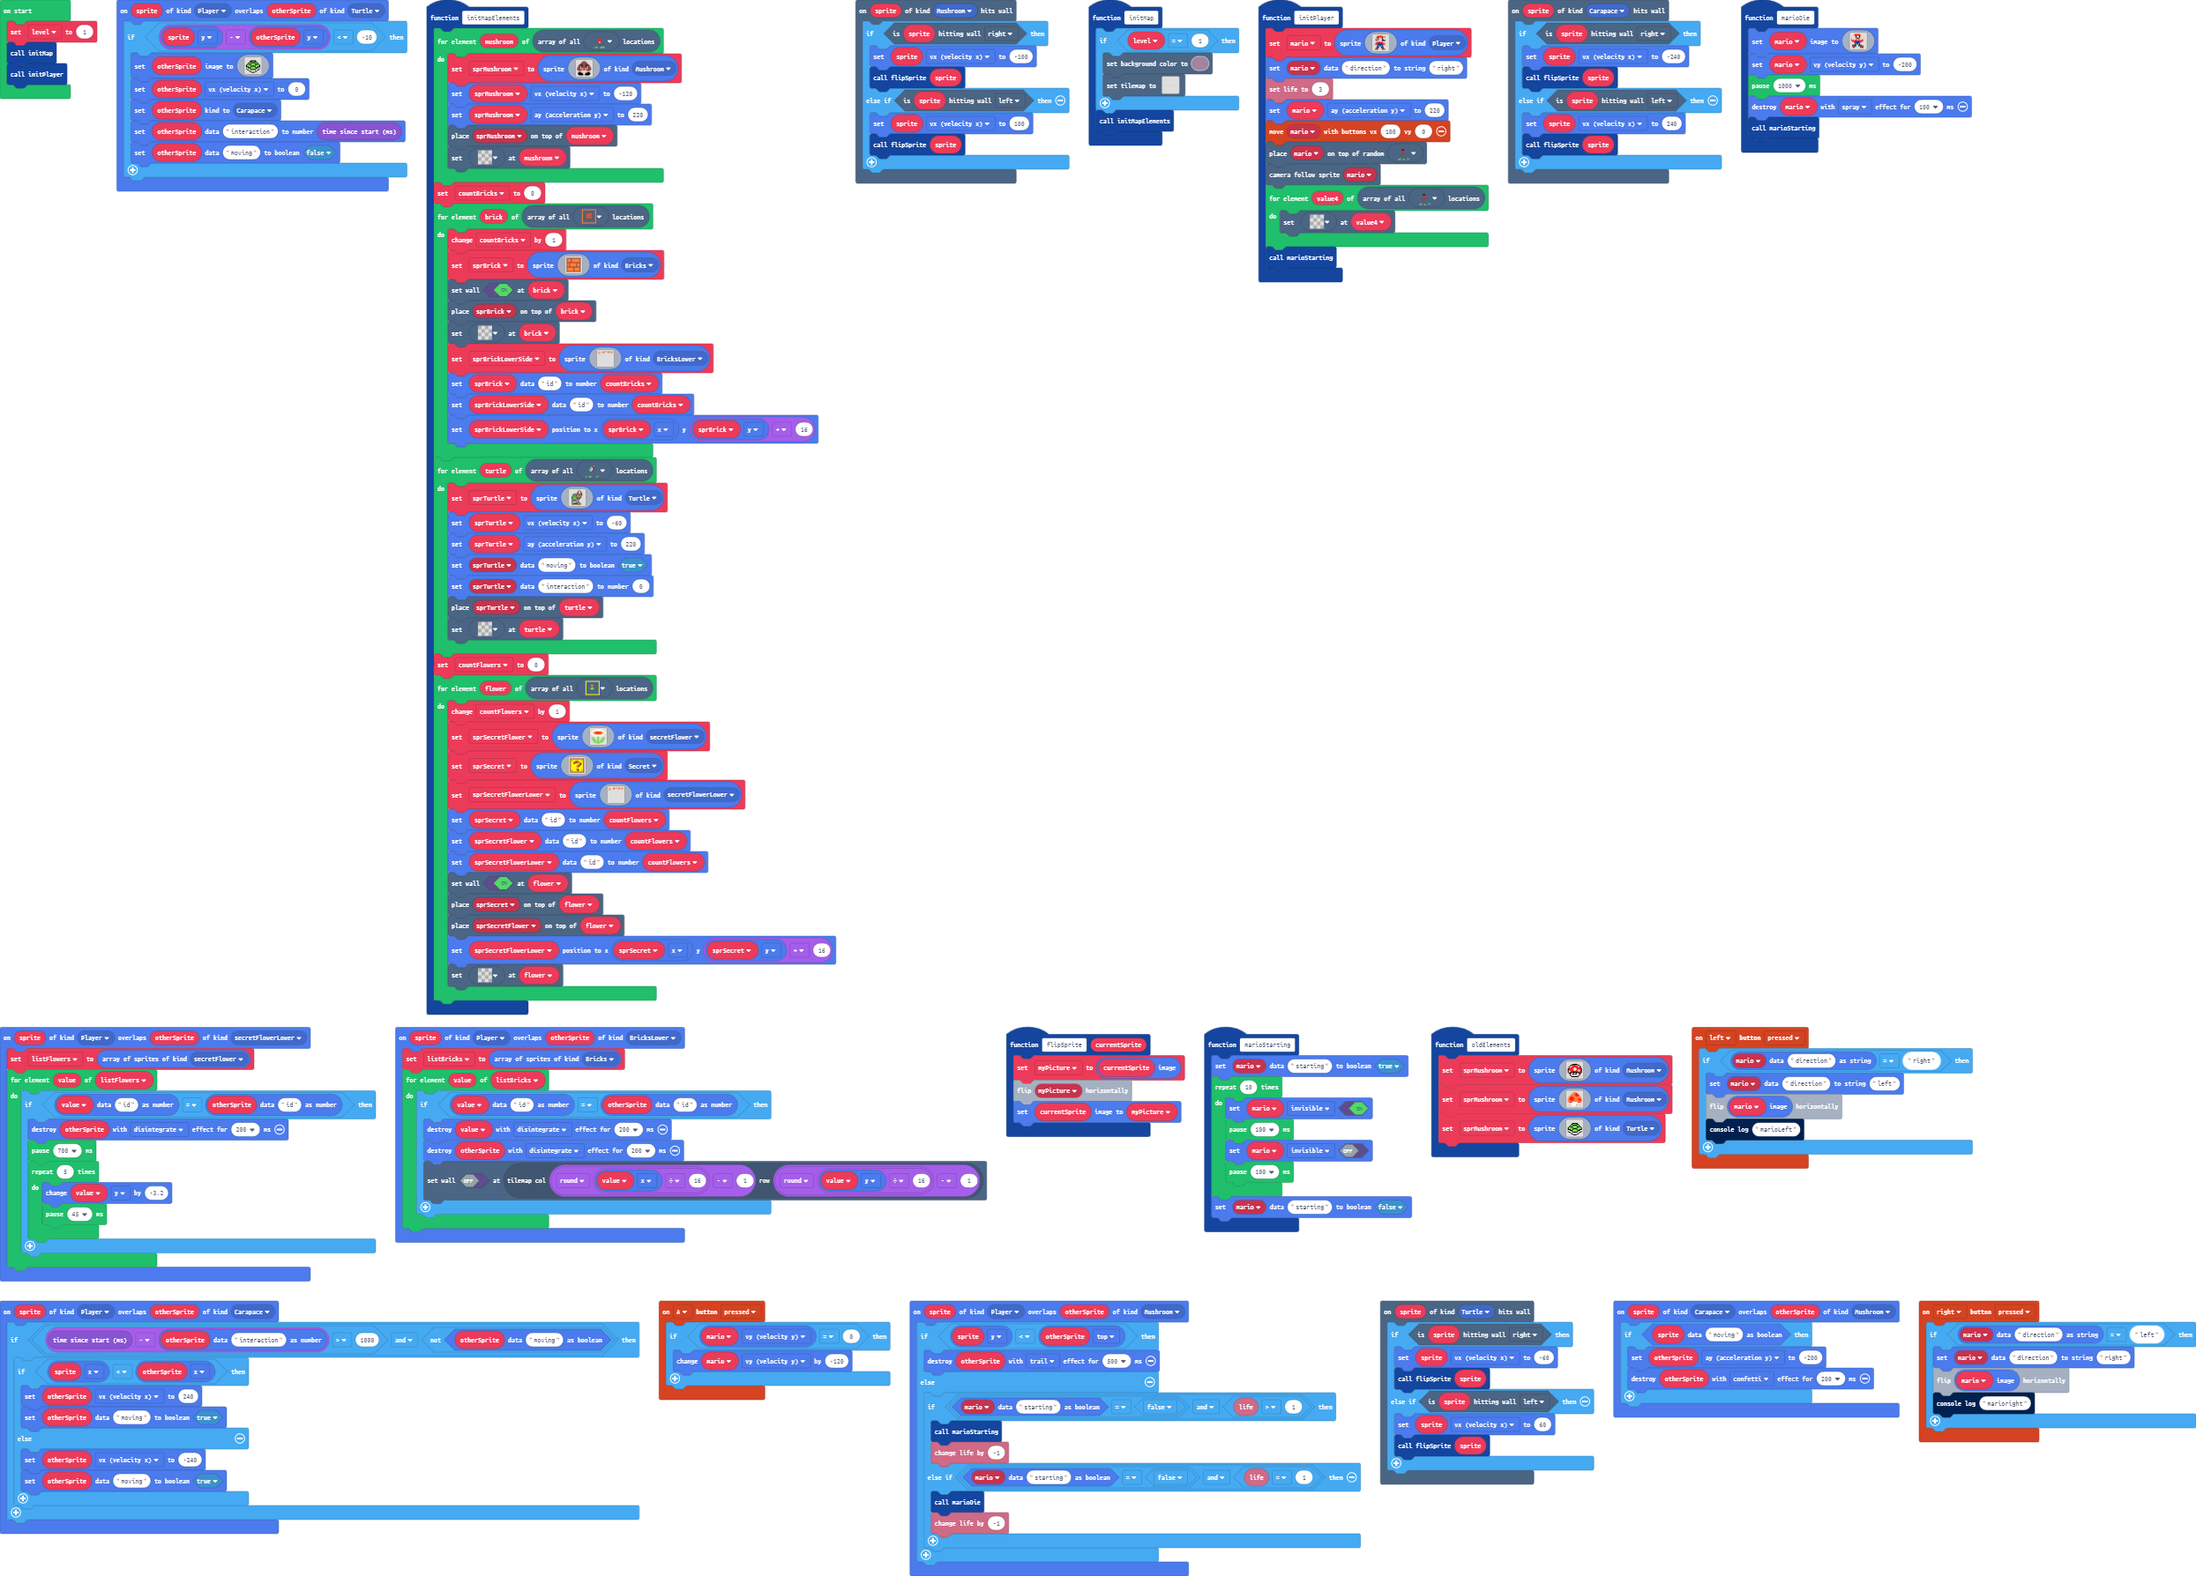
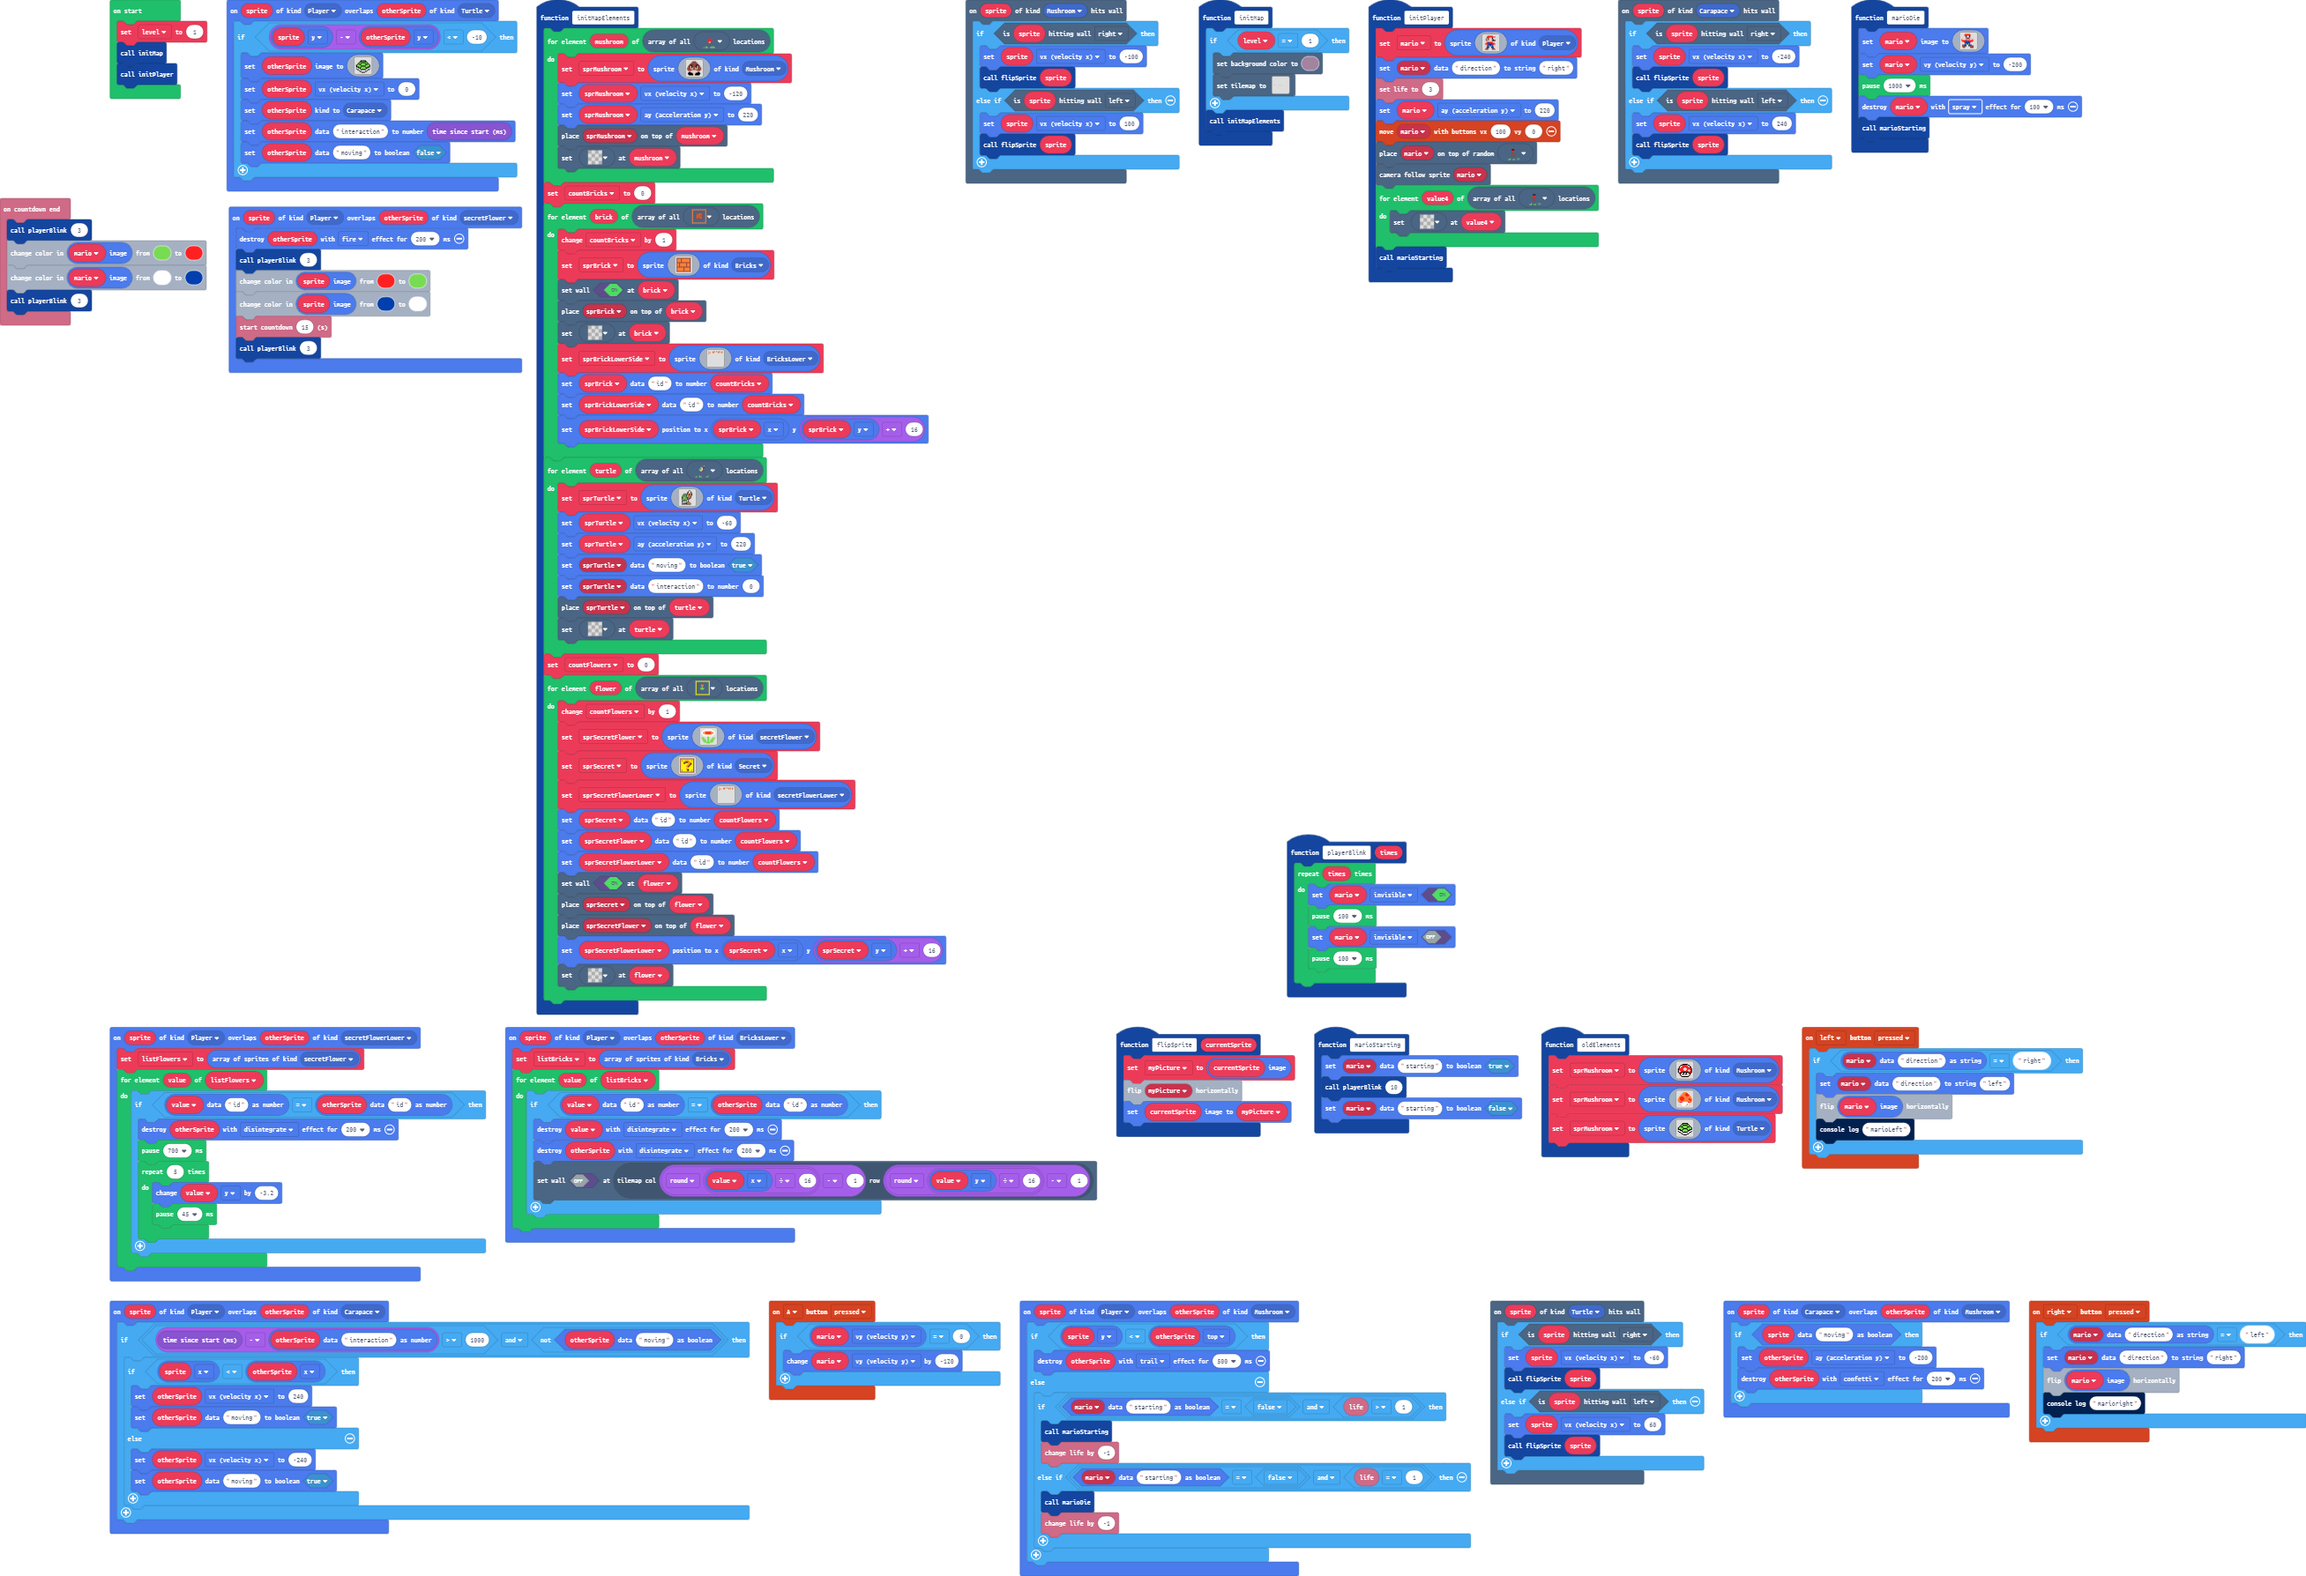
player blink

diff --git a/main.ts b/main.ts
@@ -481,12 +481,28 @@ scene.onHitWall(SpriteKind.Mushroom, function (sprite) {
         flipSprite(sprite)
     }
 })
+function playerBlink (times: number) {
+    for (let index = 0; index < times; index++) {
+        mario.setFlag(SpriteFlag.Invisible, true)
+        pause(100)
+        mario.setFlag(SpriteFlag.Invisible, false)
+        pause(100)
+    }
+}
 controller.left.onEvent(ControllerButtonEvent.Pressed, function () {
     if (sprites.readDataString(mario, "direction") == "right") {
         sprites.setDataString(mario, "direction", "left")
         mario.image.flipX()
         console.log("marioLeft")
     }
+})
+sprites.onOverlap(SpriteKind.Player, SpriteKind.secretFlower, function (sprite, otherSprite) {
+    otherSprite.destroy(effects.fire, 200)
+    playerBlink(3)
+    sprite.image.replace(2, 7)
+    sprite.image.replace(8, 1)
+    info.startCountdown(15)
+    playerBlink(3)
 })
 function initMap () {
     if (level == 1) {
@@ -692,6 +708,12 @@ controller.right.onEvent(ControllerButtonEvent.Pressed, function () {
         console.log("marioright")
     }
 })
+info.onCountdownEnd(function () {
+    playerBlink(3)
+    mario.image.replace(7, 2)
+    mario.image.replace(1, 8)
+    playerBlink(3)
+})
 function flipSprite (currentSprite: Sprite) {
     myPicture = currentSprite.image
     myPicture.flipX()
@@ -699,12 +721,7 @@ function flipSprite (currentSprite: Sprite) {
 }
 function marioStarting () {
     sprites.setDataBoolean(mario, "starting", true)
-    for (let index = 0; index < 10; index++) {
-        mario.setFlag(SpriteFlag.Invisible, true)
-        pause(100)
-        mario.setFlag(SpriteFlag.Invisible, false)
-        pause(100)
-    }
+    playerBlink(10)
     sprites.setDataBoolean(mario, "starting", false)
 }
 sprites.onOverlap(SpriteKind.Player, SpriteKind.BricksLower, function (sprite, otherSprite) {
